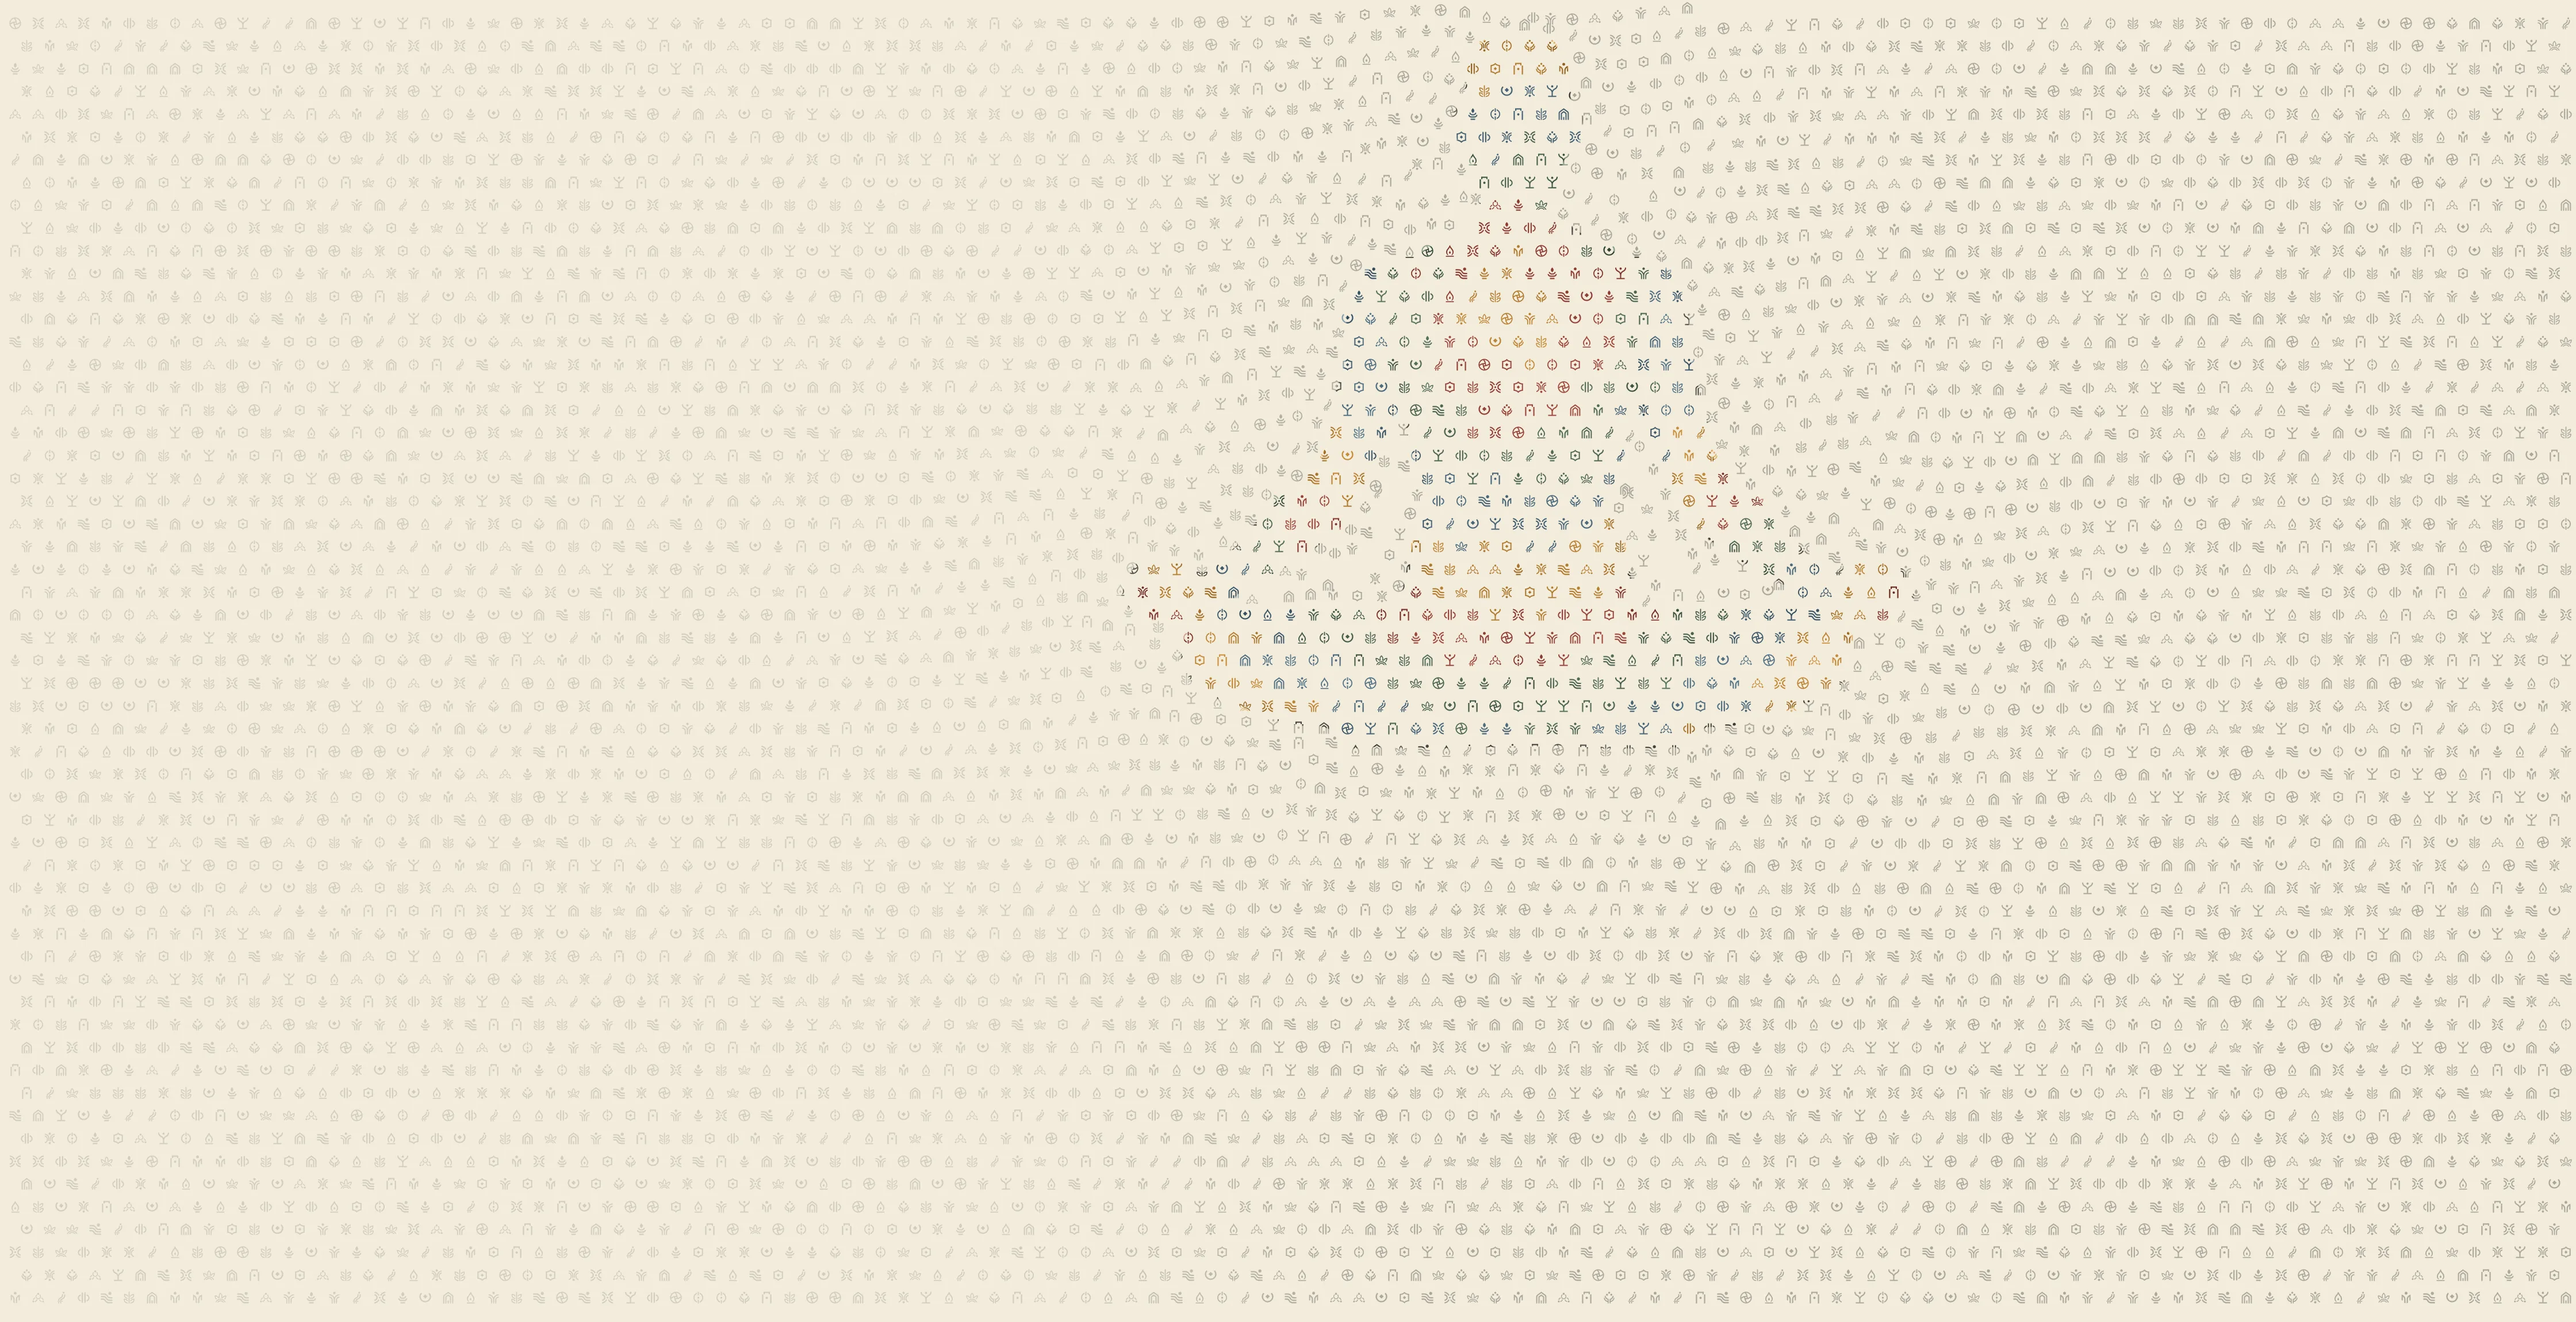
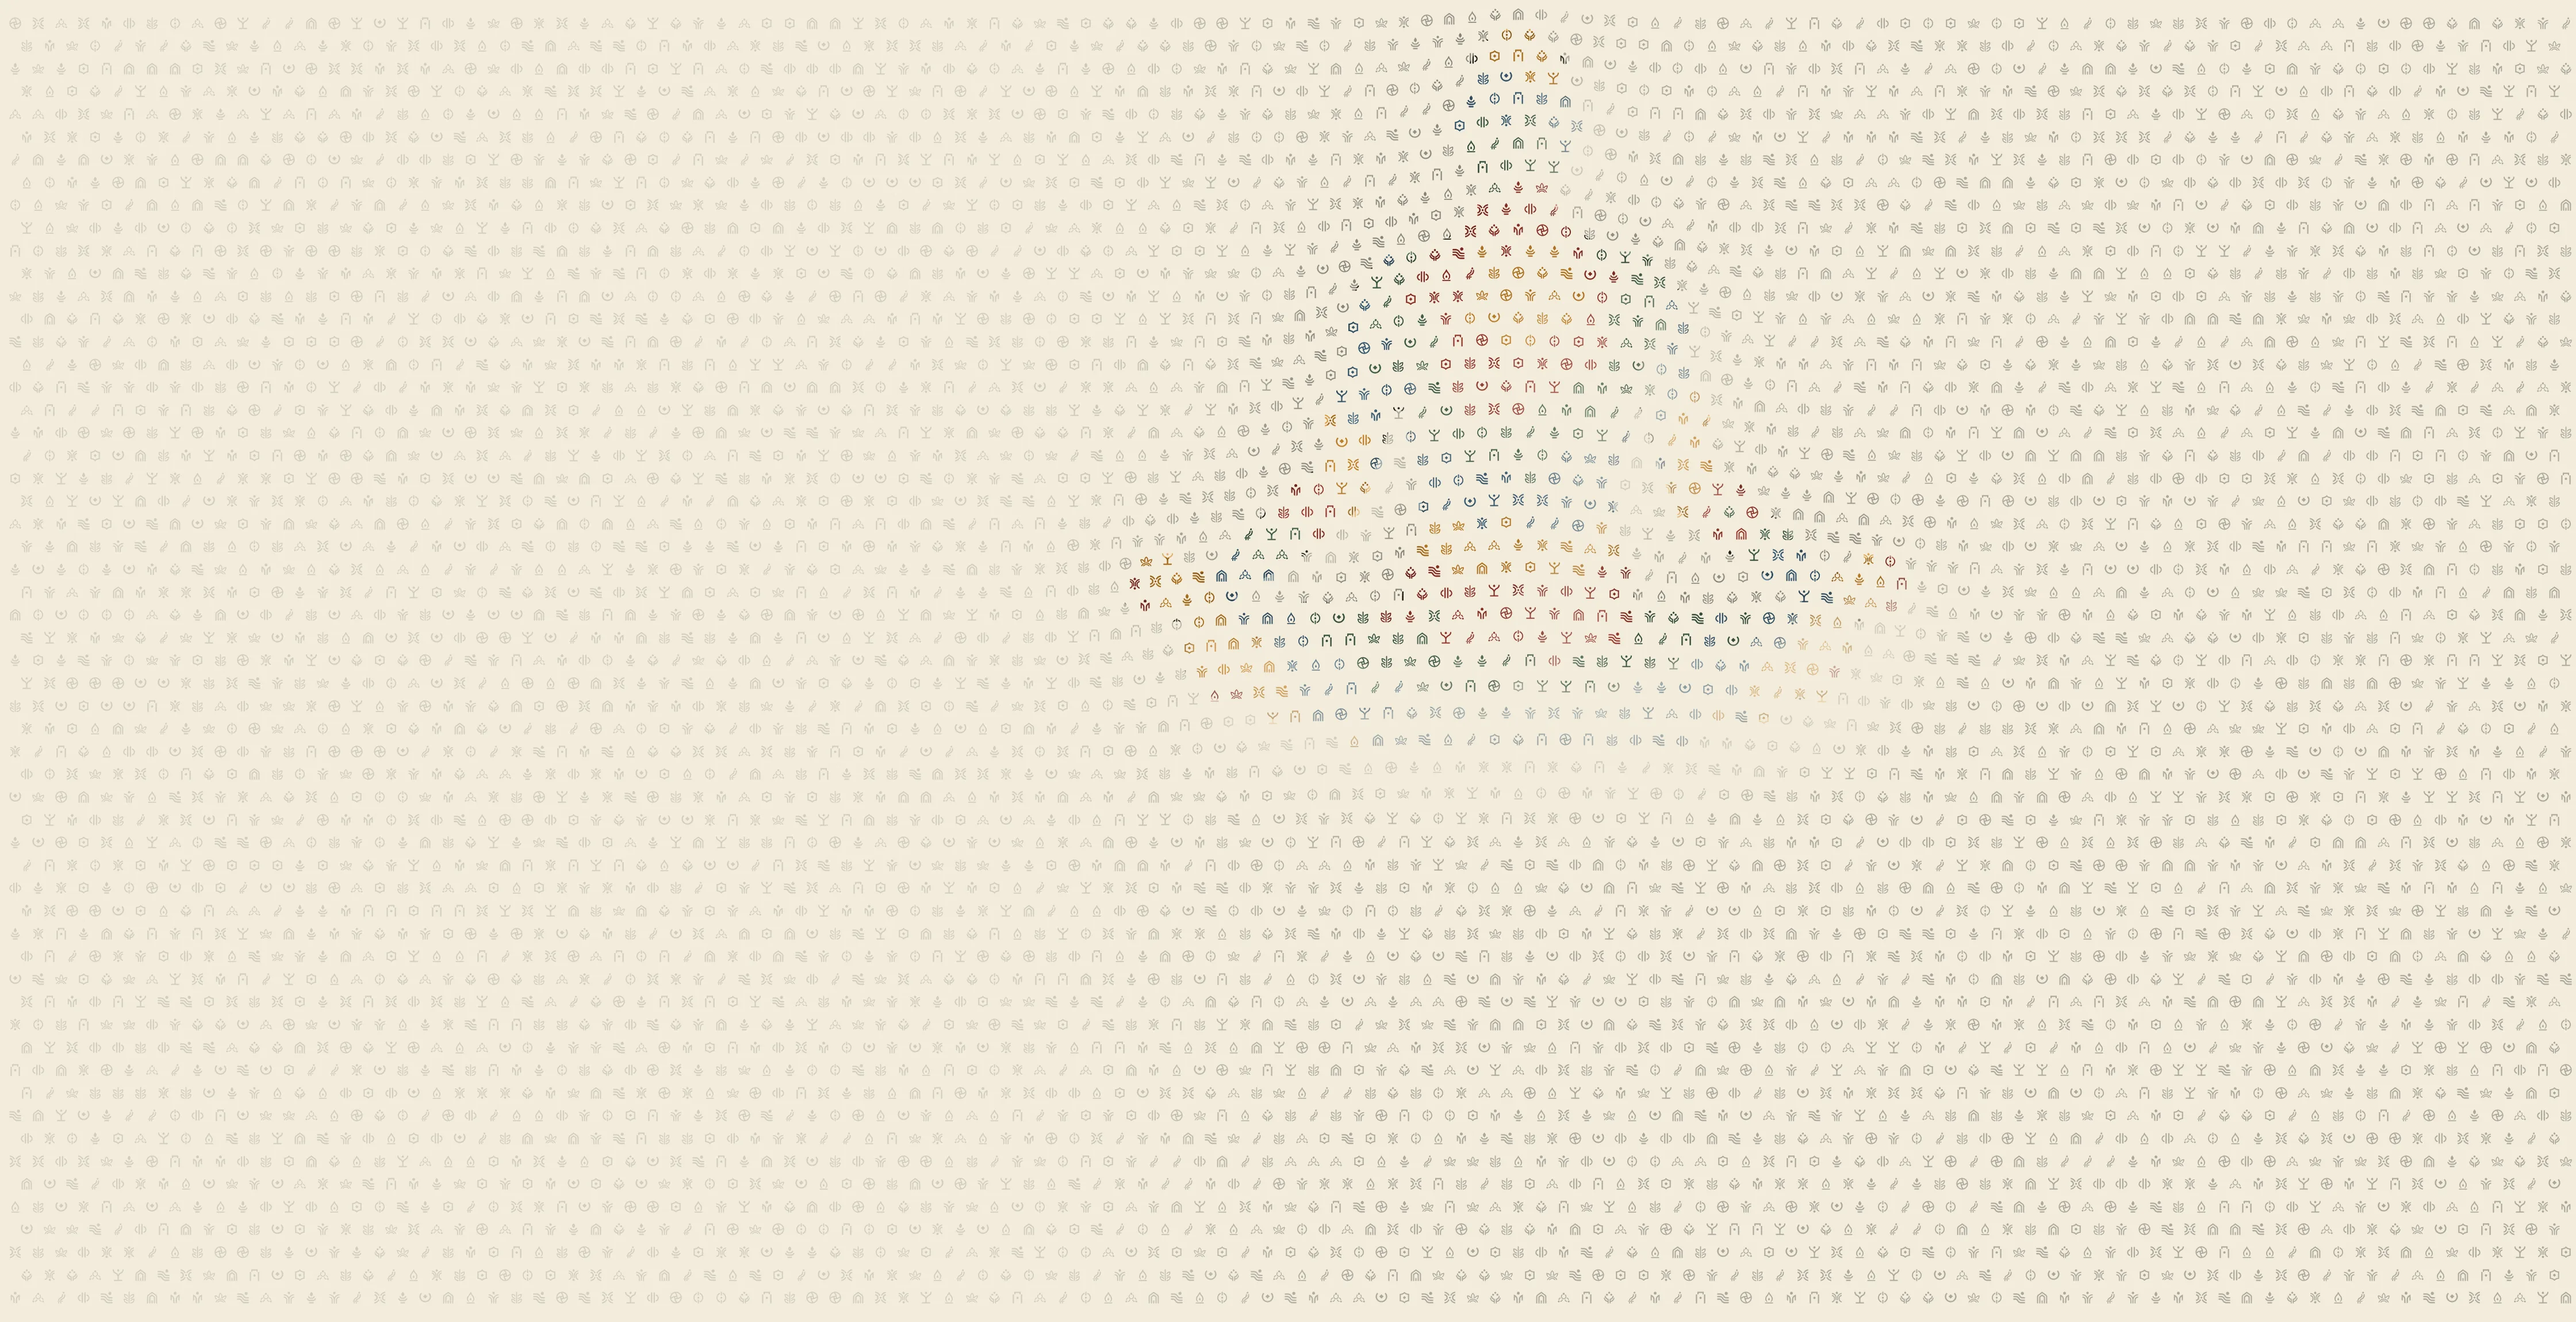
Hero figure: drape the glyph grid over the body as a raised relief
Claude-Session: https://claude.ai/code/session_01Faxypstm6H8yAswypDCHBa

Changed region(s): [[0.4062, 0.0, 0.8438, 0.8026]]

diff --git a/scripts/hero-glyph-field.py b/scripts/hero-glyph-field.py
@@ -35,11 +35,15 @@ RAIN_ALPHA=0.75           # opacity of the falling coloured glyphs
 RING=41                   # width of each colour ring around the heart
 CROWN=96                  # no clay within this many units of the top of the head
 SEED=7
-# Warp (Nov 17): the field bends around the figure. Only field glyphs move; the figure's own glyphs stay put.
-WARP=16                   # largest push (units)
-WARP_REACH=40             # distance from the outline where the push peaks (units); it fades out beyond about 3x this
-WARP_TWIST=1.0            # share of the push along the outline (rows bend around the body)
-WARP_PULL=0.25            # share of the push towards the body (keeps the edge dense; no halo)
+# Relief (Nov 17, after Dat's dark reference): the figure is a raised surface under the grid. Every glyph, field and
+# figure alike, is shifted by that surface, so rows arch up over the body and fold at its edges, like a grid draped
+# over it; light from the top left shades the slopes. Glyph sizes never change, and figure membership is tested at
+# each glyph's shifted position, so the outline stays exact.
+RELIEF_SOFT=44            # softness of the surface's edge (units): smaller = sharper fold at the outline
+RELIEF_LIFT=24            # how far the grid lifts over the body (units, upwards)
+RELIEF_SWELL=0.07         # how much the grid widens over the body, from its centre line (share of the distance)
+RELIEF_FOLD=0             # extra pull of the grid into the edge (units): rows bunch at the outline
+EMBOSS=0.55               # light and shadow on the slopes (0 = none)
 # Figure clarity (Nov 16): colour only inside the figure (FIELD_COLOUR 0), a quiet halo of lighter glyphs just outside
 # the outline, the figure's shading carried by glyph strength, and the grid centred on the figure's axis.
 HALO=30                   # width of the halo outside the outline (units)
@@ -68,19 +72,12 @@ Tn=nd.gaussian_filter(Tf,4*S)/np.maximum(nd.gaussian_filter(W8,4*S),1e-3)
 Bf=0.22+0.78*np.clip(Tn,0,1)**0.9; d_in=nd.distance_transform_edt(Mf>0.5)/S; Bf=np.clip(Bf+0.2*np.exp(-(d_in/4.0)**2),0,1)
 gd=os.path.join(IN,'glyphs'); files=sorted(f for f in os.listdir(gd) if f.endswith('.svg'))
 n=P(GS); gl=[np.asarray(Image.open(io.BytesIO(cairosvg.svg2png(url=f'{gd}/{f}',output_width=n,output_height=n))).convert('RGBA'),np.float32)[...,3]/255 for f in files]
-# Warp field (Nov 17): distortion with no gap at the outline. d = distance outside the figure (units); the push is zero
-# at the outline, peaks WARP_REACH out and fades beyond, so glyphs touching the body stay put. It runs mostly along
-# the outline (rows bend around the body, WARP_TWIST), with a small pull towards it (WARP_PULL) that keeps the field
-# dense at the edge instead of opening a halo.
-d_out=nd.distance_transform_edt(Mf<=0.5)/S; ds=nd.gaussian_filter(d_out,6*S); gy,gx=np.gradient(ds); gn=np.hypot(gx,gy)+1e-6
+# Relief surface: Hs (0..1) is the figure softened at its edge, with a little of its inner shading for form.
+Hs=nd.gaussian_filter(M,RELIEF_SOFT*S); Hs=Hs*(0.85+0.15*nd.gaussian_filter(np.clip(Tn,0,1),8*S))
+hy,hx=np.gradient(Hs); hy*=S; hx*=S; gmax=np.hypot(hx,hy).max() or 1
 def warp(x,y):
-    i=min(max(P(y),0),H_-1); k=min(max(P(x+DX),0),W_-1)
-    d=d_out[i,k]
-    if d<=0: return 0.0,0.0
-    f=WARP*(d/WARP_REACH)*np.exp(1-d/WARP_REACH)
-    nx,ny=gx[i,k]/gn[i,k],gy[i,k]/gn[i,k]          # outward normal
-    tx,ty=-ny,nx                                   # along the outline
-    return f*(WARP_TWIST*tx-WARP_PULL*nx),f*(WARP_TWIST*ty-WARP_PULL*ny)
+    i=min(max(P(y),0),H_-1); k=min(max(P(x+DX),0),W_-1); h=Hs[i,k]
+    return RELIEF_SWELL*h*(x-CX)+RELIEF_FOLD*hx[i,k]/gmax, -RELIEF_LIFT*h+RELIEF_FOLD*hy[i,k]/gmax
 rng=np.random.default_rng(SEED); np.random.seed(3)
 COL={'marigold':(217,143,43),'clay':(166,58,46),'sage':(76,107,84),'blue':(69,107,134)}; PC=['marigold','clay','sage','blue']
 def ss(t): t=np.clip(t,0,1); return t*t*(3-2*t)
@@ -99,12 +96,11 @@ for j,y in enumerate(np.arange(-SP,HU+SP,SP)):
             if u>p: continue
             if np.random.random()<ss((t-0.05)/0.45): col=PC[quarter(x)]
         X=P(x+wx+DX)-n//2; Y=P(y+wy)-n//2
-        if (wx or wy) and Mf[min(max(P(y+wy),0),H_-1),min(max(P(x+wx+DX),0),W_-1)]>0.5: continue   # a pushed field glyph never lands on the body
         if X<0 or Y<0 or X+n>W_ or Y+n>H_: continue
         if col:
             Cg[Y:Y+n,X:X+n]+=g[...,None]*np.array(COL[col],np.float32); Cw[Y:Y+n,X:X+n]=np.maximum(Cw[Y:Y+n,X:X+n],g); continue
         A[Y:Y+n,X:X+n]=np.maximum(A[Y:Y+n,X:X+n],g)
-        inside=M[min(P(y),H_-1),min(max(P(x+DX),0),W_-1)]>0.5; acc=None
+        inside=M[min(max(P(y+wy),0),H_-1),min(max(P(x+wx+DX),0),W_-1)]>0.5; acc=None   # tested where the glyph lands
         if inside:
             r=np.hypot(x-HX,(y-HY)*0.8)+np.random.normal(0,7); acc=PC[int(r//RING)%4]
             if acc=='clay' and y<TOP+CROWN: acc='marigold'
@@ -124,6 +120,8 @@ sh=np.clip(Bf,0,1)**SHADE_GAMMA
 FG=(M>0.5)&(AC>0.05)   # the figure's own glyph pixels (field glyphs overlapping the edge keep the field's look)
 amt=np.where(FG,A*(SHADE_MIN+(1-SHADE_MIN)*sh),amt)
 CI=np.where(FG[...,None],CI*(1-SHADE_DARK*sh[...,None]),CI)
+# Emboss: slopes facing the light (top left) get lighter glyphs, slopes facing away darker ones.
+lit=-(hx*-0.55+hy*-0.83)/gmax; amt=np.clip(amt*(1+EMBOSS*np.clip(lit*2.2,-1,1)),0,1)
 c=BONE+amt[...,None]*(CI-BONE)
 colr=Cg/np.maximum(Cw[...,None],1e-3); a=Cw*RAIN_ALPHA; c=c*(1-a[...,None])+colr*a[...,None]
 im=Image.fromarray(c.round().clip(0,255).astype(np.uint8))

diff --git a/docs/design/README.md b/docs/design/README.md
@@ -39,9 +39,10 @@ The older references (two bands, U-fold) are kept for history:
   - From y 578 the field disperses irregularly, never quite emptying, and ends at 1100 above the
     phase boxes (from 1110; the title sits at 960). As the glyphs fall they take the colour of the phase box below them.
   - Figure clarity (Nov 16): color only inside the figure (`FIELD_COLOUR` 0); no halo (Nov 17: `HALO_MIN` 1); the figure's shading darkens its glyphs toward ink (`SHADE_MIN`, `SHADE_DARK`,
-    `SHADE_GAMMA`); the grid has a column on the figure's center line. Field glyphs (never the figure's) bend around it without
-    leaving a gap: the push is zero at the outline, peaks 40 units out and runs mostly along the outline with a small
-    pull towards the body (`WARP` 16, `WARP_REACH`, `WARP_TWIST`, `WARP_PULL`). Below the figure the field is an even grid (`DISPERSE` False; True restores the old irregular
+    `SHADE_GAMMA`); the grid has a column on the figure's center line. Relief (Nov 17): the figure is a raised surface under the
+    grid. Every glyph shifts with it, so rows arch over the head, shoulders and knees like a grid draped over the body;
+    light from the top left shades the slopes. Glyph sizes don't change and figure membership is tested where each
+    glyph lands (`RELIEF_SOFT`, `RELIEF_LIFT`, `RELIEF_SWELL`, `RELIEF_FOLD`, `EMBOSS`). Below the figure the field is an even grid (`DISPERSE` False; True restores the old irregular
     dispersal with phase-colored falling glyphs).
   - Fades (desktop, `app/lanes-home.css`): a bone panel behind the copy, solid past the text and then fading in a
     straight line to the right and below; the field's bottom fades out in a straight line before the phases title.

diff --git a/docs/edit-ledger.md b/docs/edit-ledger.md
@@ -710,3 +710,13 @@ commits. Hashes below were backfilled for commits made before the ledger existed
 - Fixed: background glyphs that partly overlap the body's edge no longer pick up the figure's dark shading. They had shown up as small dark fragments along the outline.
 - Settings: `WARP` 16, `WARP_REACH` 40, `WARP_TWIST` 1, `WARP_PULL` 0.25 in `scripts/hero-glyph-field.py`.
 - Why: Dat, Nov 17 ("it still looks like there's a halo").
+
+### 2026-11-17 · Hero figure: the grid drapes over the body (`home-04-lanes` only)
+- The distortion is redone after Dat's dark reference, which set the effect only; nothing is traced from it.
+- The figure is now a raised surface under the glyph grid. Every glyph, background and figure alike, shifts with that surface, so the rows arch up over the head and shoulders and curve around the arms and knees, as if the grid were draped over the body.
+  - Light from the top left lightens the slopes facing it and darkens those facing away, giving the body relief.
+- Glyph sizes don't change. A glyph counts as part of the figure by where it lands, so the outline stays exact.
+- Density stays even right up to the body (11.2% within 15 units of the outline, about 10% further out), so there is no halo.
+- The Nov 17 sideways bend of the background only is replaced.
+- Settings: `RELIEF_SOFT` 44, `RELIEF_LIFT` 24, `RELIEF_SWELL` 0.07, `RELIEF_FOLD` 0 and `EMBOSS` 0.55, in `scripts/hero-glyph-field.py`.
+- Why: Dat, Nov 17 ("re-do it to make it more like this, where it bends to emphasize the figure. the field folds around the figure").
